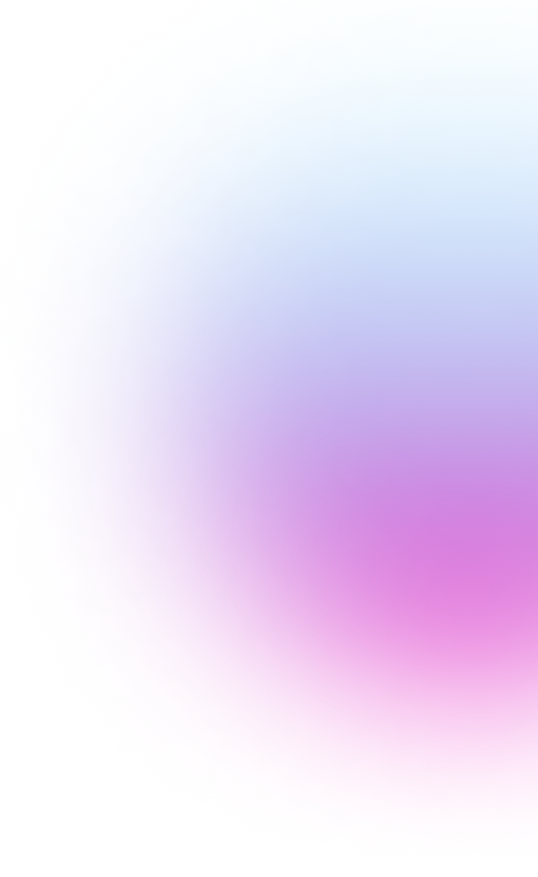
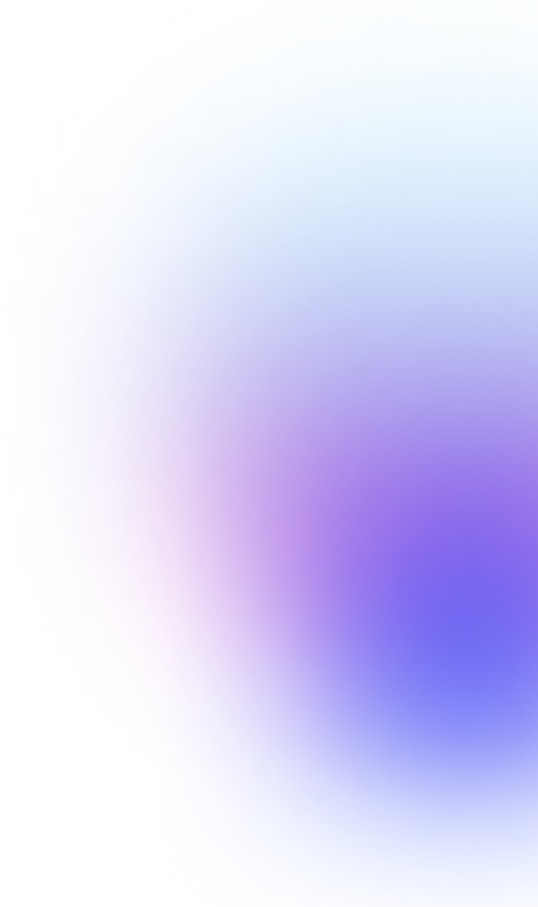
gradient hero

Changed region(s): [[0.4461, 0.431, 1.0, 0.9544]]

diff --git a/src/components/Header/Header.module.css b/src/components/Header/Header.module.css
@@ -1,9 +1,9 @@
 .header {
   color: white;
-  padding: 26px 130px;
   text-align: center;
   border-radius: 10px;
   position: relative;
+  padding: 26px 130px;
   margin-bottom: 143px;
 }
 
@@ -11,8 +11,7 @@
   display: flex;
   justify-content: space-between;
   align-items: center;
-  max-width: 1200px;
-  margin: 0 auto;
+  width: 100%;
 }
 
 .logo {
@@ -21,57 +20,17 @@
 }
 
 .navLinks {
-  list-style: none;
   display: flex;
-  gap: 20px;
-}
-
-.navLinks li a {
-  color: white;
-  text-decoration: none;
-  font-size: 16px;
-}
-
-.contactButton {
-  background-color: #6246ea;
-  color: white;
-  padding: 10px 20px;
-  border: none;
-  border-radius: 5px;
-  cursor: pointer;
-  transition: background 0.3s;
-}
-
-.contactButton:hover {
-  background-color: #4835c3;
-}
-
-.headerContent {
-  max-width: 700px;
-  margin: 50px auto 0;
-}
-
-.tagline {
-  background: rgba(255, 255, 255, 0.2);
-  padding: 5px 15px;
-  border-radius: 20px;
-  font-size: 14px;
-}
-
-.ctaButton {
-  background: linear-gradient(90deg, #ff4dff, #6e45e2);
-  color: white;
-  padding: 12px 25px;
-  font-size: 18px;
-  border: none;
-  border-radius: 5px;
-  cursor: pointer;
-  margin-top: 20px;
-  transition: opacity 0.3s;
-}
-
-.ctaButton:hover {
-  opacity: 0.8;
+  align-items: center;
+  justify-content: center;
+  flex-direction: row;
+  gap: 32px;
+  & a {
+    font-weight: 600;
+    font-size: 14px;
+    line-height: 1.4;
+    color: var(--gray-0);
+  }
 }
 
 .icon {

diff --git a/src/components/CardHero/CardHero.module.css b/src/components/CardHero/CardHero.module.css
@@ -1,33 +1,52 @@
 .card {
-  background: linear-gradient(180deg, #2e0066, #3b008b, #933ffe);
-  padding: 20px;
-  width: 180px;
-  text-align: center;
-  box-shadow: 0px 4px 20px rgba(147, 63, 254, 0.5);
+  position: relative;
+  background: linear-gradient(
+    180deg,
+    rgba(50, 50, 50, 0.8) 0%,
+    rgba(25, 25, 25, 0.8) 100%
+  );
+  border-radius: 20px;
+  padding: 40px;
+  width: 280px;
+  min-height: 200px;
   display: flex;
   flex-direction: column;
-  align-items: center;
-
-  width: 195;
-  height: 251;
-  border-radius: 25px;
-  border-width: 1px;
+  align-items: flex-start;
+  justify-content: space-between;
+  box-shadow: 0px 10px 30px rgba(0, 0, 0, 0.2);
+  backdrop-filter: blur(10px);
 }
 
 .number {
-  font-size: 22px;
-  font-weight: bold;
-  color: white;
+  font-size: 32px;
+  font-weight: 700;
+  color: #ffffff;
 }
 
 .text {
-  font-size: 14px;
-  opacity: 0.9;
-  color: white;
+  font-size: 16px;
+  color: #d9d9d9;
 }
 
-.image {
-  margin-top: 10px;
-  width: 80%;
-  border-radius: 8px;
+.avatarGroup {
+  display: flex;
+  gap: -10px;
+  align-items: center;
+  position: relative;
+  margin-top: 15px;
+}
+
+.avatar {
+  width: 31px;
+  height: 43px;
+  border-radius: 50%;
+  object-fit: cover;
+  box-shadow: 0 4px 10px rgba(0, 0, 0, 0.2);
+  transition: transform 0.3s ease-in-out;
+  border: 3px solid rgba(255, 255, 255, 0.5);
+  background: white;
+}
+
+.avatar:hover {
+  transform: scale(1.1);
 }

diff --git a/src/components/Hero/Hero.jsx b/src/components/Hero/Hero.jsx
@@ -4,8 +4,16 @@ import Header from "../Header/Header";
 import Button from "../Button/Button";
 import CardHero from "../CardHero/CardHero";
 import GradientBackground from "../HeroBackground/GradientBackground";
+import peple1 from "../../assets/image/peple1.jpg";
+import peple2 from "../../assets/image/peple2.jpg";
+import peple3 from "../../assets/image/peple3.jpg";
+import peple4 from "../../assets/image/peple4.jpg";
+import peple5 from "../../assets/image/peple5.jpg";
+import peple6 from "../../assets/image/peple6.jpg";
 
 const Hero = () => {
+  const avatars = [peple1, peple2, peple3, peple4, peple5, peple6];
+
   return (
     <div className={s.hero}>
       <GradientBackground />
@@ -23,9 +31,13 @@ const Hero = () => {
         </p>
         <Button>Get Started</Button>
       </div>
-      <div>
-        <CardHero number="5,000" text="lorem ipsum dolor sit amet" />
-        <CardHero number="2,000" text="lorem ipsum dolor sit amet" />
+      <div style={{ display: "flex", gap: "20px", justifyContent: "center" }}>
+        <CardHero number="5,000" text="lorem ipsum sit amet" images={avatars} />
+        <CardHero
+          number="2,000"
+          text="lorem ipsum dolor sit amet"
+          images={avatars}
+        />
       </div>
     </div>
   );

diff --git a/src/components/HeroBackground/GradientBackground.module.css b/src/components/HeroBackground/GradientBackground.module.css
@@ -9,12 +9,10 @@
 }
 
 .greenGlowEllipse,
-.greanGlowRestangle,
 .purpleGlow,
 .pinkGlow,
-.pinkRestangle,
-.blueGlowElipcse {
-  filter: blur(50px);
+.pinkRestangle {
+  filter: blur(30px);
   position: absolute;
 }
 
@@ -27,26 +25,11 @@
   z-index: -1;
 }
 
-.greanGlowRestangle {
-  width: 170px;
-  height: 241px;
-  top: 84px;
-  left: 138px;
-  z-index: -1;
-}
-
 .purpleGlow {
   width: 100%;
   top: 0;
   left: 0;
-  z-index: -10;
-}
-
-.pinkGlow {
-  width: 100%;
-  top: 0;
-  left: 0;
-  z-index: -10;
+  z-index: -1;
 }
 
 .pinkRestangle {
@@ -55,13 +38,5 @@
   top: 73px;
   right: -170px;
   border-radius: 100%;
-  z-index: -3;
-}
-
-.blueGlowElipcse {
-  width: 289px;
-  height: 411px;
-  top: 351px;
-  right: -50px;
-  z-index: -3;
+  z-index: -2;
 }

diff --git a/src/components/HeroBackground/GradientBackground.jsx b/src/components/HeroBackground/GradientBackground.jsx
@@ -8,16 +8,10 @@ const GradientBackground = () => {
         <img src="/src/assets/EclipseOne.png" />
       </div>
       <div className={s.purpleGlow}>
-        <img src="/src/assets/EllipseTree.png" />
-      </div>
-      <div className={s.pinkGlow}>
-        <img src="/src/assets/EllipseFour.png" />
+        <img src="/src/assets/EllipseTree.png" width="100%" height="766" />
       </div>
       <div className={s.pinkRestangle}>
-        <img src="/src/assets/EclipseTwo.png" />
-      </div>
-      <div className={s.blueGlowElipcse}>
-        <img src="/src/assets/RectangleTwo.png" />
+        <img src="/src/assets/EclipseTwo.png" width="603" height="690" />
       </div>
     </div>
   );

diff --git a/src/components/CardHero/CardHero.jsx b/src/components/CardHero/CardHero.jsx
@@ -1,12 +1,22 @@
 import React from "react";
 import s from "./CardHero.module.css";
 
-const CardHero = ({ number, text, image }) => {
+const CardHero = ({ number, text, images }) => {
   return (
     <div className={s.card}>
       <h3 className={s.number}>{number}+</h3>
       <p className={s.text}>{text}</p>
-      <img src={image} alt="Users" className={s.image} />
+      <div className={s.avatarGroup}>
+        {images.map((img, index) => (
+          <img
+            key={index}
+            src={img}
+            alt={`User ${index}`}
+            className={s.avatar}
+            style={{ transform: `rotate(15deg)` }}
+          />
+        ))}
+      </div>
     </div>
   );
 };

diff --git a/src/components/SectionTwo/SectionTwo.module.css b/src/components/SectionTwo/SectionTwo.module.css
@@ -4,7 +4,9 @@
   justify-content: flex-start;
   flex-direction: row;
   gap: 115px;
-  margin-top: 200px;
+  max-width: 1180px;
+  margin: 200px auto 0;
+  padding: 0 10px;
 }
 
 .sectionText {

diff --git a/src/components/TokenSale/TokenSale.module.css b/src/components/TokenSale/TokenSale.module.css
@@ -5,6 +5,9 @@
   justify-content: center;
   align-items: center;
   position: relative;
+  max-width: 1180px;
+  margin: 0 auto;
+  padding: 0 10px;
 }
 
 .description {

diff --git a/src/components/ServicesSection/ServicesSection.module.css b/src/components/ServicesSection/ServicesSection.module.css
@@ -1,5 +1,7 @@
 .serviceSection {
-  margin-top: 200px;
+  max-width: 1180px;
+  margin: 200px auto 0;
+  padding: 0 10px;
 }
 
 .grid {

diff --git a/src/components/App/App.module.css b/src/components/App/App.module.css
@@ -1,5 +1,4 @@
 .container {
   max-width: 1440px;
   margin: 0 auto;
-  padding: 0 130px;
 }
